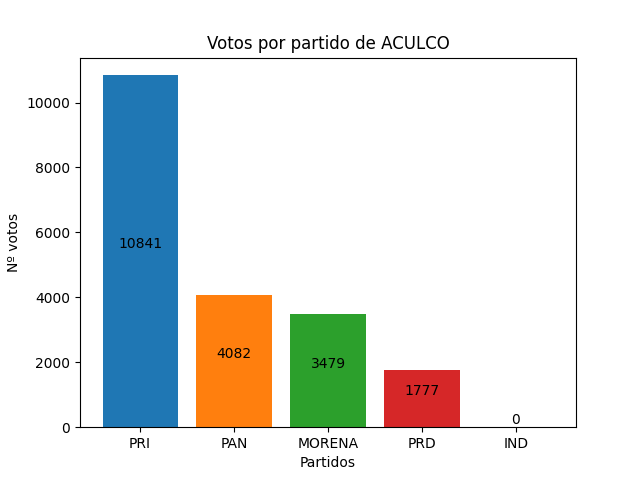
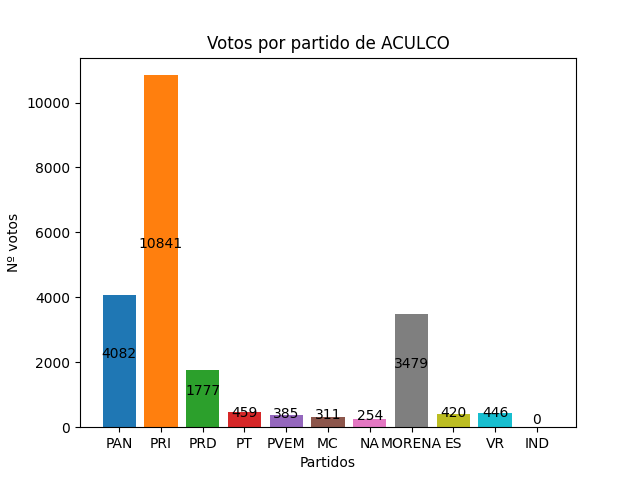
fix: :art: actualizacion de consultas
agregado de partidos faltantes

Changed region(s): [[0.1562, 0.1562, 0.875, 0.9375]]

diff --git a/static/js/index.js b/static/js/index.js
@@ -149,10 +149,7 @@ boton_buscador.addEventListener("click", (e)=>{
                         data: {
                           labels: PARTIDOS,
                           datasets: [
-                            {
-                              label:graficas[lista[i]]["datasets"][0]["label"],
-                              data: graficas[lista[i]]["datasets"][0]["data"]
-                            }
+                              graficas[lista[i]]["datasets"][0]
                           ]
                         },
                         options: graficas[lista[i]]["options"]["title"]

diff --git a/app.py b/app.py
@@ -490,5 +490,5 @@ def interrupcion(sig, frame):
     sys.exit(0)
 
 if __name__ == '__main__':
-    signal.signal(signal.SIGINT, interrupcion)
+    #signal.signal(signal.SIGINT, interrupcion)
     app.run(debug=True, port=8000)
